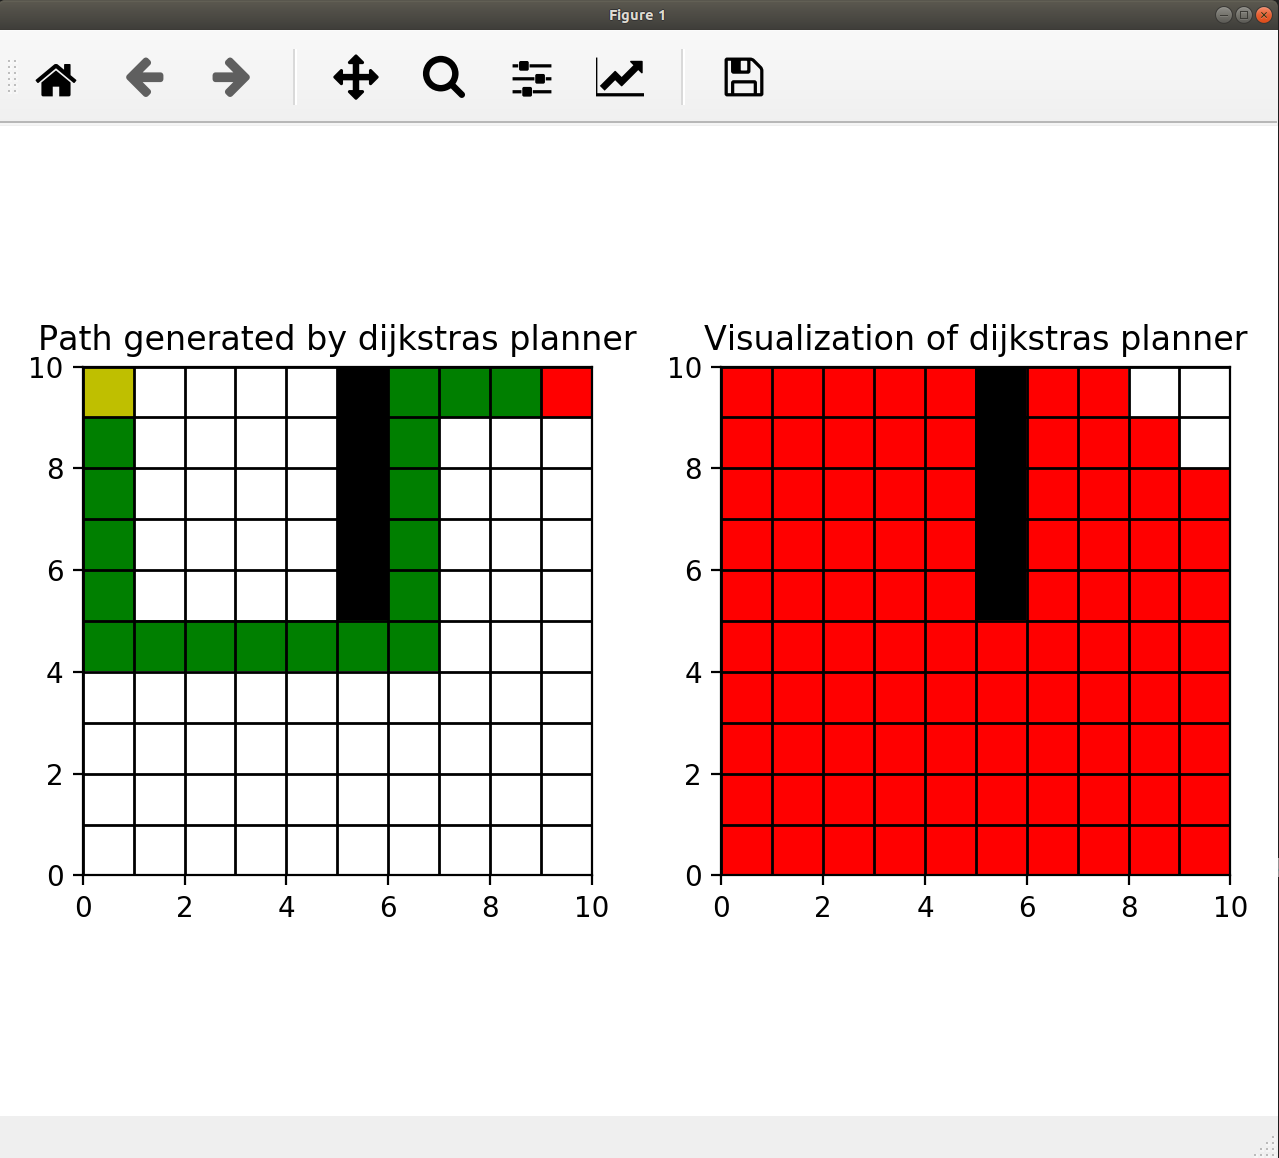
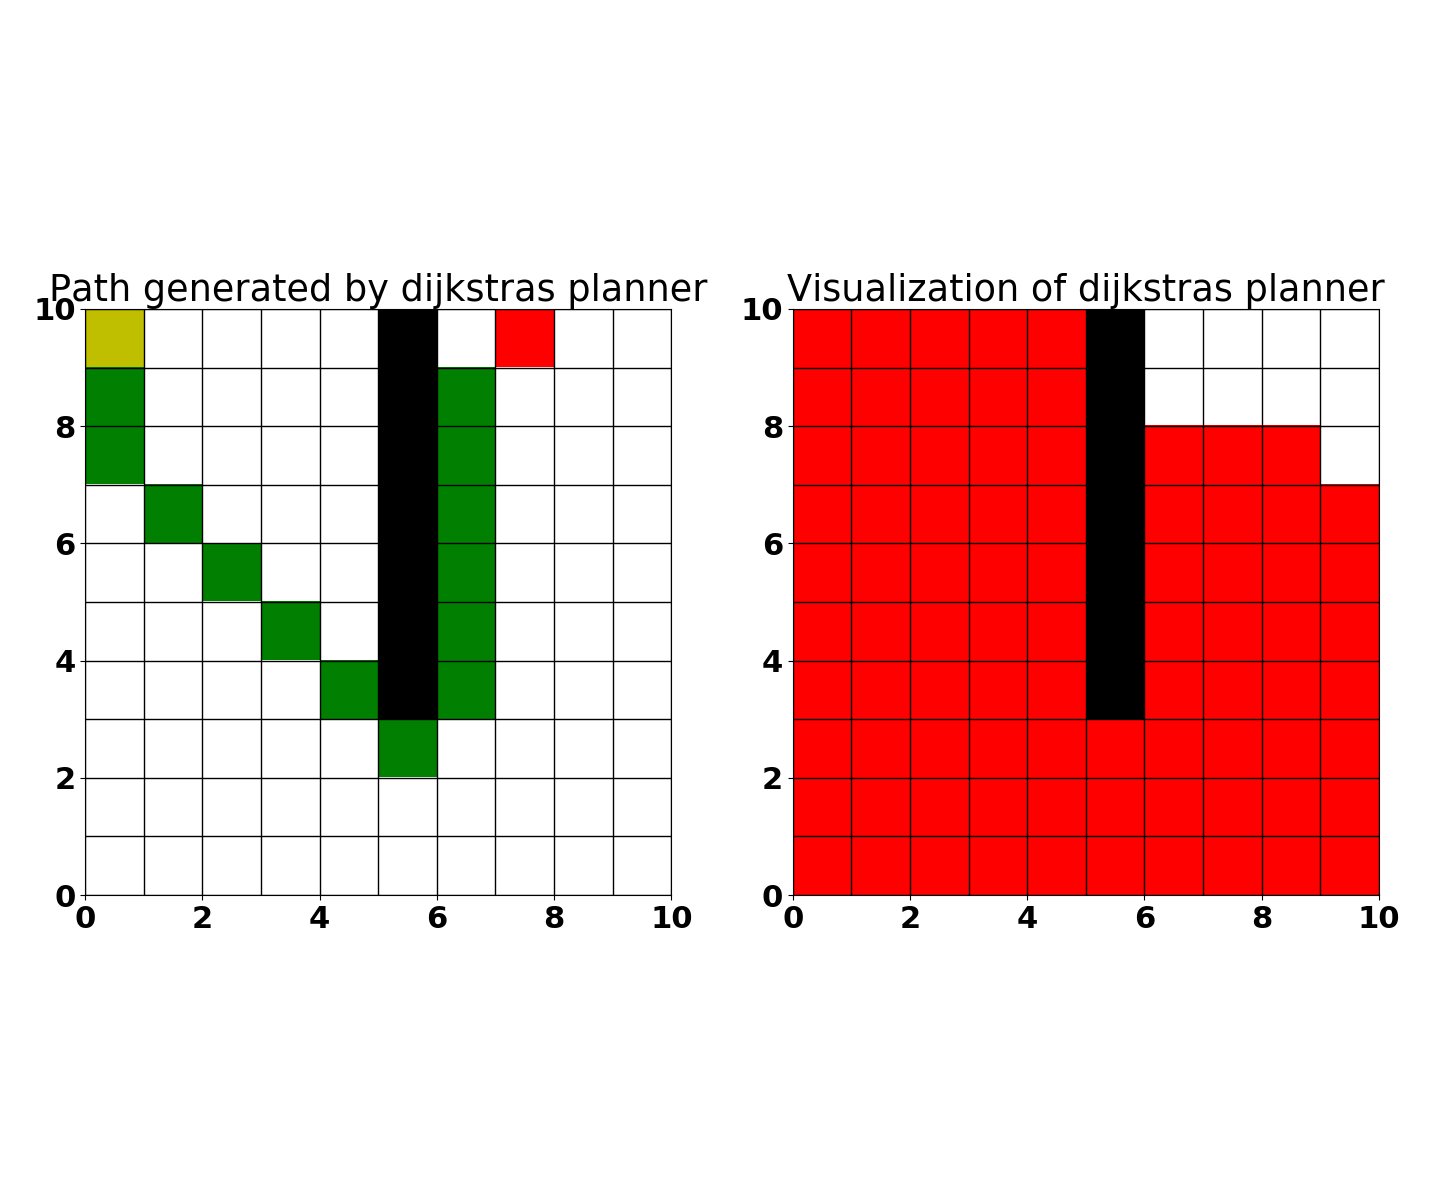
Updated plots for grid planners

diff --git a/grid_planners/Visualizer.py b/grid_planners/Visualizer.py
@@ -9,6 +9,11 @@ import matplotlib.pyplot as plt
 from matplotlib.animation import FuncAnimation
 from OccupancyMap import OccupancyMap2D
 
+font = {'family' : 'DejaVu Sans',
+        'weight' : 'bold',
+        'size'   : 22}
+
+matplotlib.rc('font', **font)
 
 def get_grid(map):
     n_rows = map.n_rows
@@ -48,8 +53,9 @@ def display_solution(path, solver_steps, map, start, goal, parent='', steps=Fals
 
     # Visualizing solver
     if (steps):
-        ani = FuncAnimation(fig, animate, frames = solver_steps[:len(solver_steps) - 1], fargs = [map, ax[1]], repeat= True, interval = 100)
-    plt.show()
+        ani = FuncAnimation(fig, animate, frames = solver_steps[:len(solver_steps) - 1], fargs = [map, ax[1]], repeat= True, interval = 10)
+    plt.pause(0.01)
+    # plt.show()
 
 def animate(step, map, ax):
     # map_copy = copy.deepcopy(map)

diff --git a/README.md b/README.md
@@ -20,9 +20,11 @@ python3 grid_planners/main -n 10 -a dijsktras
 Terminal output:
 ```
 Solving using Dijkstras...
-    Found goal (0, 9) with distance 19
-Path found from (0, 0) to (0, 9) after expanding 93 nodes!
-Path: [(0, 0), (1, 0), (2, 0), (3, 0), (4, 0), (5, 0), (5, 1), (5, 2), (5, 3), (5, 4), (5, 5), (5, 6), (4, 6), (3, 6), (2, 6), (1, 6), (0, 6), (0, 7), (0, 8), (0, 9)]
+    Found goal (0, 7) with distance 16.898
+Solution found in 0.036817073822021484 seconds
+Path found from (0, 0) to (0, 7) after expanding 85 nodes!
+Path: [(0, 0), (1, 0), (2, 0), (3, 1), (4, 2), (5, 3), (6, 4), (7, 5), (6, 6), (5, 6), (4, 6), (3, 6), (2, 6), (1, 6), (0, 7)]
+
 ```
 
 #### Path planning with Astar algorithm on a 2D grid
@@ -36,9 +38,11 @@ python3 grid_planners/main -n 10 -a astar
 Terminal output:
 ```
 Solving using A*...
-    Found goal (0, 9) with distance 19 and f 0.0
-Path found from (0, 0) to (0, 9) after expanding 57 nodes!
-Path: [(0, 0), (0, 1), (0, 2), (0, 3), (0, 4), (1, 4), (2, 4), (3, 4), (4, 4), (5, 4), (5, 5), (5, 6), (4, 6), (3, 6), (3, 7), (2, 7), (2, 8), (1, 8), (1, 9), (0, 9)]
+    Found goal (0, 7) with distance 16.897
+Solution found in 0.0024843215942382812 seconds
+Path found from (0, 0) to (0, 7) after expanding 46 nodes!
+Path: [(0, 0), (1, 1), (2, 1), (3, 2), (4, 3), (5, 4), (6, 4), (7, 5), (6, 6), (5, 6), (4, 6), (3, 6), (2, 6), (1, 7), (0, 7)]
+
 
 
 ```
